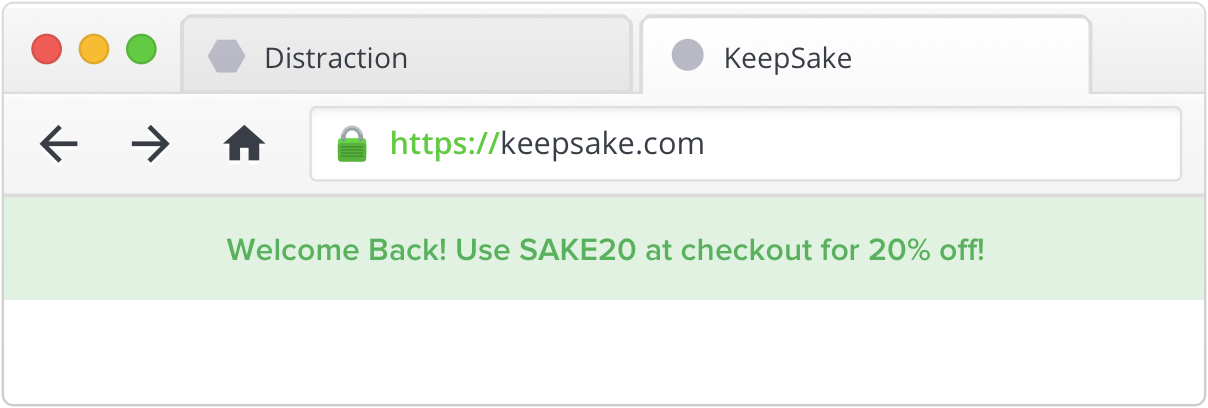
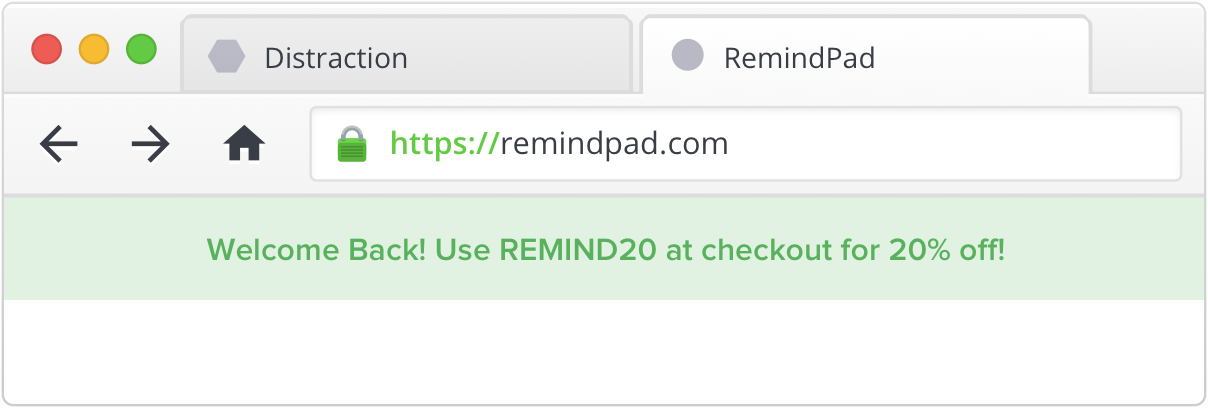
add meta tags and update name

Changed region(s): [[0.1531, 0.5588, 0.8576, 0.6471], [0.3982, 0.3235, 0.6126, 0.3824], [0.582, 0.1176, 0.7351, 0.1765]]

diff --git a/index.html b/index.html
@@ -2,7 +2,18 @@
 <html lang="en">
 <head>
 	<meta charset="UTF-8">
-	<title>Keepsake</title>
+	<meta name="viewport" content="width=device-width, minimum-scale=1.0">
+	<meta name="description" content="Regaining Lost Visitors Made Simple.">
+
+	<!-- Open Graph data -->
+	<meta property="og:title" content="RemindPad">
+	<meta property="og:type" content="article">
+	<meta property="og:url" content="https://remindpad.com/">
+
+	<!-- UPLOAD THIS IMAGE -->
+	<meta property="og:description" content="Regaining Lost Visitors Made Simple.">
+
+	<title>RemindPad</title>
 
 	<link rel="stylesheet" href="css/normalize.css">
 	<link rel="stylesheet" href="css/skeleton.min.css">
@@ -12,8 +23,9 @@
 	<section class="hero">
 		<div class="container">
 			<header>
-				<div class="u-pull-left">KeepSake</div>
-				<div class="u-pull-right"><a href="https://bouncelytics.com">Twitter</a></div>
+				<div class="u-pull-left logo">Remindpad</div>
+				<div class="u-pull-right"><a href="mailto:hello@remindpad.com">Contact</a></div>
+				<div class="u-pull-right" style="margin-right: 30px;"><a href="https://twitter.com/remindpad">Twitter</a></div>
 			</header>
 			<div class="row">
 				<div class="seven columns">
@@ -103,6 +115,6 @@
 		</div>
 	</section>
 
-	<footer class="u-text-center">Copyright &copy; KeepSake 2016.</footer>
+	<footer class="u-text-center">Copyright &copy; RemindPad 2016.</footer>
 </body>
 </html>

diff --git a/css/landing.css b/css/landing.css
@@ -3,6 +3,10 @@ body, html {
 	margin: 0;
 }
 
+a {
+	text-decoration: none;
+}
+
 .hero {
 	color: #373d3f;
 	position: relative;
@@ -19,7 +23,13 @@ h4 {
 header {
 	padding: 1.5em 0 3em;
 	border-bottom: 1px solid rgba(95,102,120,0.2);
-	margin-bottom: 4em;
+	margin-bottom: 3em;
+}
+
+.logo {
+	font-size: 15px;
+	font-weight: bold;
+	text-transform: uppercase;
 }
 
 form, input[type=submit] {
@@ -27,15 +37,15 @@ form, input[type=submit] {
 }
 
 .how {
-	margin: 3em 0 4em;
-	padding-top: 3em;
+	margin: 2em 0 2em;
+	padding-top: 2em;
 	border-top: 1px solid rgba(95,102,120,0.2);
 }
 
 .image-container {
 	height: 200px;
 	margin-bottom: 2em;
-	margin-top: 2em;
+	margin-top: 0em;
 }
 
 .steps {
